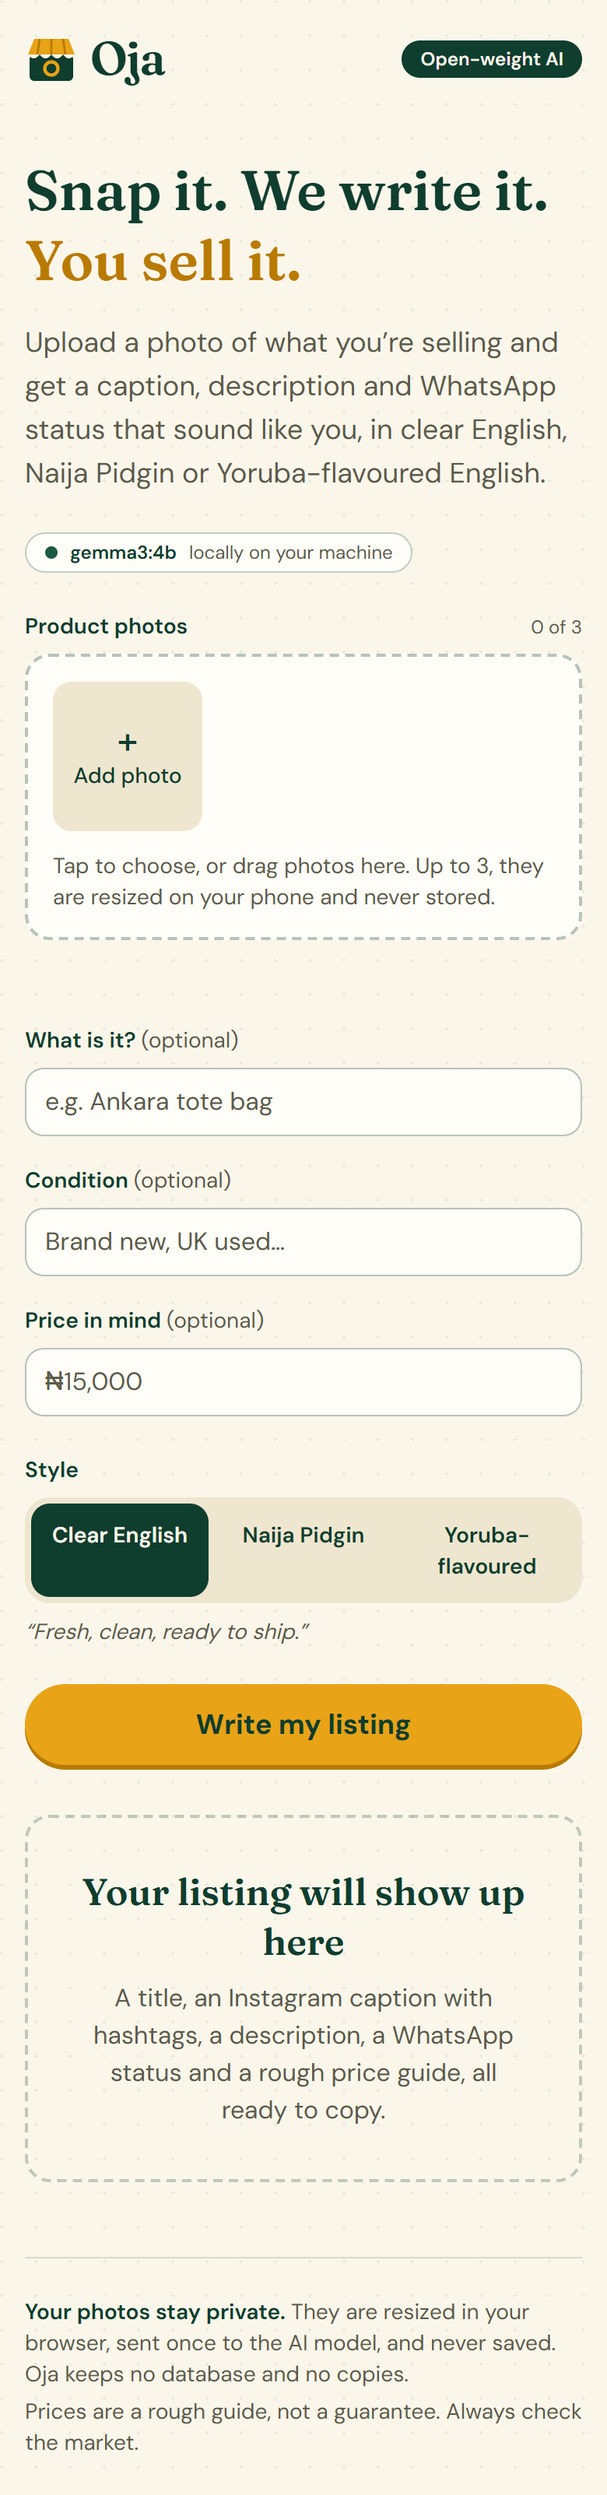
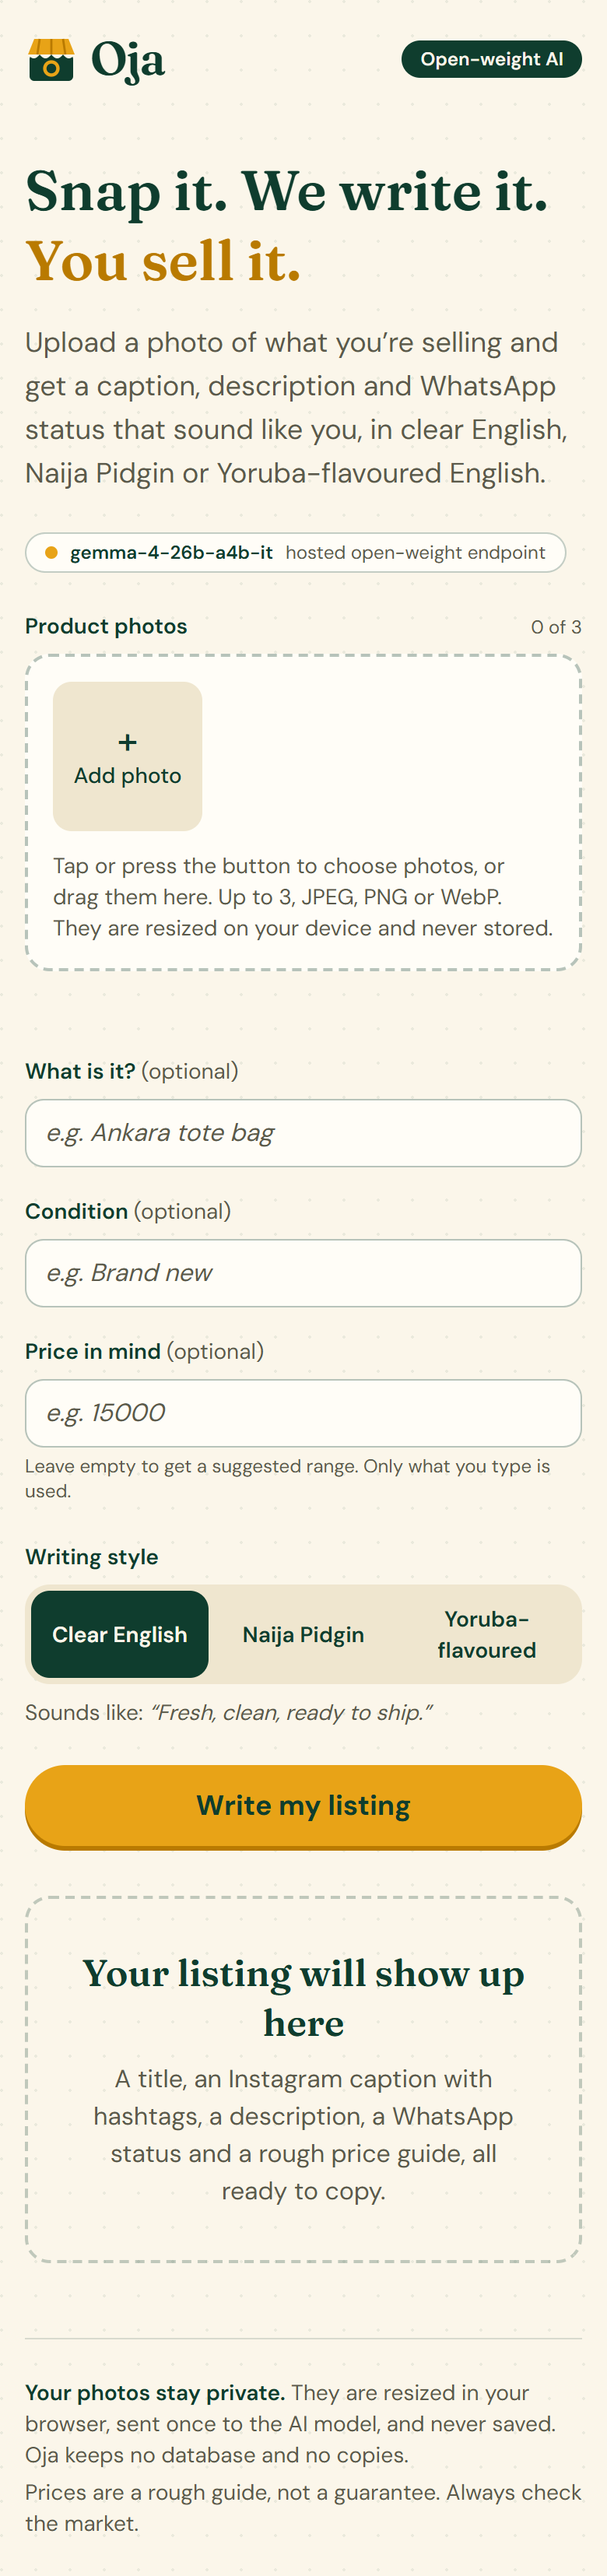
docs: measured hosted timings, latency experiments, accessibility section
Hosted gemma-4-26b-a4b-it runs about 7-11 s versus 148-215 s on CPU-only gemma3:4b. 768px images and reasoning_effort were tried and rejected; max_tokens 600 gave no measurable gain. Screenshots regenerated from a real hosted generation.

diff --git a/README.md b/README.md
@@ -20,7 +20,7 @@ pnpm install
 pnpm dev              # http://localhost:3000
 ```
 
-Other scripts: `pnpm test`, `pnpm lint`, `pnpm typecheck`, `pnpm build`.
+Other scripts: `pnpm test`, `pnpm lint`, `pnpm typecheck`, `pnpm build`, and (with the app running on port 3010) `pnpm a11y` and `node scripts/bench.mjs` for the accessibility and latency checks.
 
 ## Environment variables
 
@@ -32,6 +32,8 @@ Copy `.env.example` to `.env.local` if you want to change anything.
 | `AI_MODEL` | `gemma3:4b` | Model name, must support image input |
 | `AI_API_KEY` | empty | Sent as a Bearer token when set |
 | `AI_TIMEOUT_SECONDS` | `300` | Per-request timeout |
+| `AI_REASONING_EFFORT` | unset | Sent as `reasoning_effort` only when set. Not every endpoint or model accepts it (see Latency) |
+| `AI_MAX_TOKENS` | `900` | Cap on the model's reply length |
 
 ## Using a hosted open-weight model
 
@@ -47,7 +49,7 @@ No code changes: set `AI_BASE_URL`, `AI_MODEL` and (if the provider needs one) `
 What was checked (against the providers' own docs, 13 Oct 2026) and what was not:
 
 - OpenRouter's base URL and Bearer auth are documented. Pick the model slug from `openrouter.ai/models` or `GET /api/v1/models`, and filter for image input.
-- Google documents the OpenAI-compatible base URL, Bearer auth and `image_url` data URLs. Its Gemma page lists `gemma-4-31b-it` and `gemma-4-26b-a4b-it` on the Gemini API with image support. I did not confirm that those Gemma IDs are served through the OpenAI-compatible path specifically, and I have not run them. Treat the model names as examples and check the provider's current list.
+- Google documents the OpenAI-compatible base URL, Bearer auth and `image_url` data URLs. Its Gemma page lists `gemma-4-31b-it` and `gemma-4-26b-a4b-it` on the Gemini API with image support. I have run `gemma-4-26b-a4b-it` through the OpenAI-compatible endpoint from this app (that is the model behind the timings below); `gemma-4-31b-it` I have not run. Treat all model names as examples and check the provider's current list.
 - Hosted endpoints receive the photos you send. Only the local Ollama setup keeps them on your machine.
 
 ## How the AI layer works
@@ -56,21 +58,27 @@ What was checked (against the providers' own docs, 13 Oct 2026) and what was not
 - Images go in the OpenAI vision format (`image_url` parts); the model is asked for one strict JSON object.
 - Output passes through markdown-fence stripping and a brace-balanced extractor, then a zod schema. If invalid, one repair call tells the model what was wrong. After that it returns a clear error.
 - Small tolerances: price strings like "₦12,000" are coerced to integers, a reversed range is swapped, hashtags get a `#`.
-- Prompt is compact, `max_tokens` is 900, and each style has its own voice brief.
-- Generation time is logged (`[oja] generated ... ms=`) and returned as `ms`.
+- Prompt is compact, `max_tokens` is 900, and each style has its own voice brief with a worked example.
+- The chosen voice applies to the caption, description and WhatsApp status, and the user turn restates it.
+- The model first lists what it can see in a `seen` field (visible parts and colours). It grounds the copy, is validated, and is dropped from the response.
+- It may not invent a collection, sizes, materials or use cases. If the photos show nothing sellable, the title starts with "No sellable product visible" and the UI shows a plain explanation instead of cards.
+- Hashtags are capped at 8 and de-duplicated. The price note is one sentence about what drives the range; the UI adds the "rough guide, not a guarantee" line once.
+- Only values the seller typed are sent as hints. Placeholders live in the `placeholder` attribute and cannot be sent (tested).
+- Generation time and whether the repair call was needed are logged (`[oja] generated ... attempts=1 ms=`) and returned as `ms` and `attempts`.
 
 ## Decisions
 
 - **Rate limit** is in memory, 10 requests/minute per IP; fine for one instance.
 - **Body limit** 6 MB; the browser resizes to 1024px JPEG first.
 - **Timeout default 300s**: on a CPU-only laptop gemma3:4b took about 2.5 minutes per listing, so a shorter default would fail regularly.
-- **Price guide** is always labelled a rough guide; the model also writes its own note.
+- **Price guide** is always labelled a rough guide by the UI; the model's own note is kept to what drives the range.
+- **Photos stay at 1024px.** 768px was measured and rejected (see Latency).
 - **No streaming**, because the output must be complete valid JSON before it is shown.
 - **TypeScript 6**, since typescript-eslint does not support TS 7 yet.
 
 ## Measured generation time
 
-`gemma3:4b` on Ollama 0.40.3, 100% CPU, one 1024px photo, hints supplied, no repair needed:
+Local, `gemma3:4b` on Ollama 0.40.3, 100% CPU, one 1024px photo (earlier prompt):
 
 | Style | Server time |
 | --- | --- |
@@ -78,7 +86,53 @@ What was checked (against the providers' own docs, 13 Oct 2026) and what was not
 | Naija Pidgin | 148.0 s |
 | Yoruba-flavoured | 157.2 s |
 
-A later run through the browser UI (Naija Pidgin, same photo) took 215.0 s on the server, 215.6 s in the UI, on the same CPU, so expect 2.5 to 3.5 minutes locally. That is why the UI shows an elapsed-seconds counter for local models. A GPU or a hosted endpoint is far faster; I have not measured a hosted endpoint yet.
+A later run through the browser UI took 215 s. Expect 2.5 to 3.5 minutes on a CPU, which is why the UI shows an elapsed-seconds counter for local models.
+
+Hosted, `gemma-4-26b-a4b-it` through Google's OpenAI-compatible endpoint, 14 Oct 2026, one product photo (838x1024 JPEG), 3 runs per style, server time in seconds (median, min to max):
+
+| Configuration | English | Pidgin | Yoruba | Valid JSON, first try |
+| --- | --- | --- | --- | --- |
+| Earlier prompt, 1024px, `max_tokens` 900 | 8.3 (8.0-8.3) | 7.8 (7.6-7.8) | 7.9 (7.9-8.2) | not recorded; 7/9 calls succeeded, 2 failed upstream (HTTP 502) |
+| **Current prompt, 1024px, 900 (kept)** | 11.0 (7.4-13.4) | 7.1 (6.8-7.2) | 7.6 (7.4-7.7) | 9/9 |
+| Current prompt, **768px**, 900 | 26.0 (25.6-26.0) | 25.8 (25.5-26.0) | 26.9 (26.4-26.9) | 0/9 (all needed the repair call; 2 of 9 still failed) |
+| Current prompt, 1024px, `max_tokens` **600** | 7.0 (6.8-7.7) | 6.5 (6.3-7.5) | 7.7 (7.3-8.0) | 9/9 |
+
+One run through the browser UI at the end took 27.8 s on the server for a single request, so expect a spread of roughly 7 to 30 s rather than a fixed number. These are single-machine, single-day measurements against a free-tier endpoint, not a benchmark.
+
+### Latency experiments
+
+- **`AI_REASONING_EFFORT`** (optional, unset by default, sent only when set): this endpoint and model reject it. `low` and `medium` returned HTTP 400 "Thinking level is not supported for this model", `none` returned 400 "Thinking budget is not supported", `minimal` returned a 500. So it cannot be used with this model; it stays available for endpoints that accept it.
+- **768px images**: rejected. The first reply was invalid JSON in all 9 runs, every success needed the repair call (about 26 s instead of about 8 s), and 2 of 9 failed outright. Photos stay at 1024px.
+- **`max_tokens` 600 instead of 900**: valid JSON 9/9 and equivalent output, but no measurable speed-up (within run-to-run noise), so the default stays at 900 to leave headroom. `AI_MAX_TOKENS` lets you change it.
+- Output quality was checked on every run with `scripts/bench.mjs`: the brown handle was mentioned 9/9, no American slang appeared, hashtag counts were 5 to 8, the price note never repeated the disclaimer, and Pidgin and Yoruba markers appeared in all three text fields. Those are regex checks plus reading samples, not a human evaluation.
+
+## Accessibility
+
+Built and checked against WCAG 2.2 AA criteria with automated and scripted keyboard checks (`pnpm a11y`, axe-core plus a Playwright walk-through, API mocked). **Manual testing with a screen reader (NVDA on Windows, VoiceOver on iOS) has not been done yet, so no conformance level is claimed.** Automated tools find only part of the real problems.
+
+What the check covers: 0 axe violations in the empty, loading, result, no-product and error states; every control at least 44x44 px at 390 px wide; no horizontal overflow; visible focus on every tab stop; pointer cursor on every interactive element and not-allowed when disabled; reduced-motion honoured.
+
+Keyboard map:
+
+| Key | What it does |
+| --- | --- |
+| Tab / Shift+Tab | Add photo, then the three hint fields, then the style group (one stop), then the generate button, then the results |
+| Enter or Space on "Add photo" | Opens the photo picker |
+| Enter or Space on a photo's × | Removes that photo (named "Remove photo 2 of 3") |
+| Left/Right (or Up/Down) in the style group | Changes the writing style |
+| Enter on "Write my listing" | Generates. With no photo it says so in an alert |
+| Tab after results appear | Goes from the "Your listing" heading to the first Copy button |
+
+Decisions:
+
+- The style picker is a native radio group in a `fieldset role="radiogroup"`, so arrow keys, announcement and the single tab stop come from the browser, not custom key handling.
+- One polite live region announces "Writing your listing", "Listing ready", "Photo removed" and "Copied <field>". The rotating progress messages are deliberately not announced; they would be noise.
+- When a result or error appears, focus moves to its heading (a plain `tabIndex=-1` heading, not a trap). Errors are `role="alert"`.
+- The generate button uses `aria-disabled` while busy so it keeps focus instead of vanishing from the tab order.
+- Headings go h1 (page), h2 (form, results, errors), h3 (each result card). Skeletons are `aria-hidden` inside an `aria-busy` region.
+- Placeholders are italic with an "e.g." prefix, the hint fields have visible labels, and the price field explains that only typed text is used.
+- Motion: a global `prefers-reduced-motion` rule stops CSS animation and transitions, Framer Motion uses `reducedMotion="user"`, and the scroll to results is instant when reduced motion is requested.
+- Not done: a skip link (the page is short), and screen-reader testing as above.
 
 ## Privacy
 
